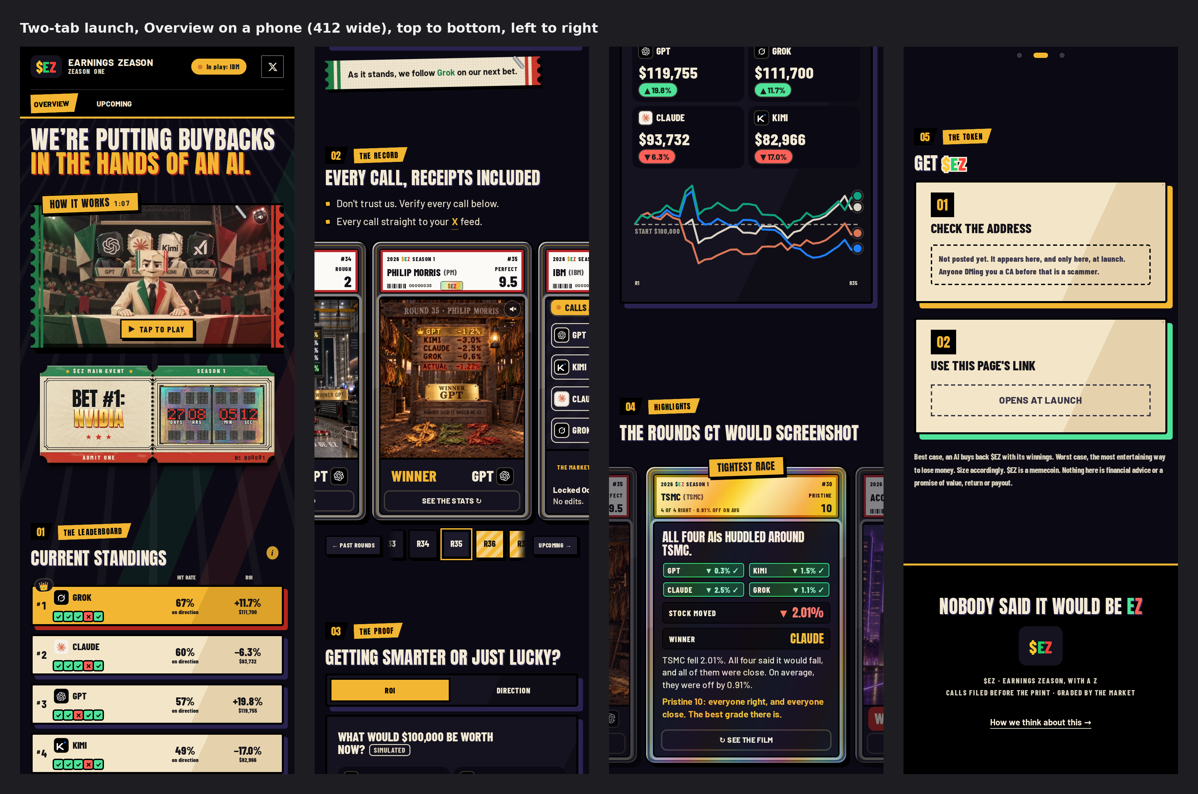
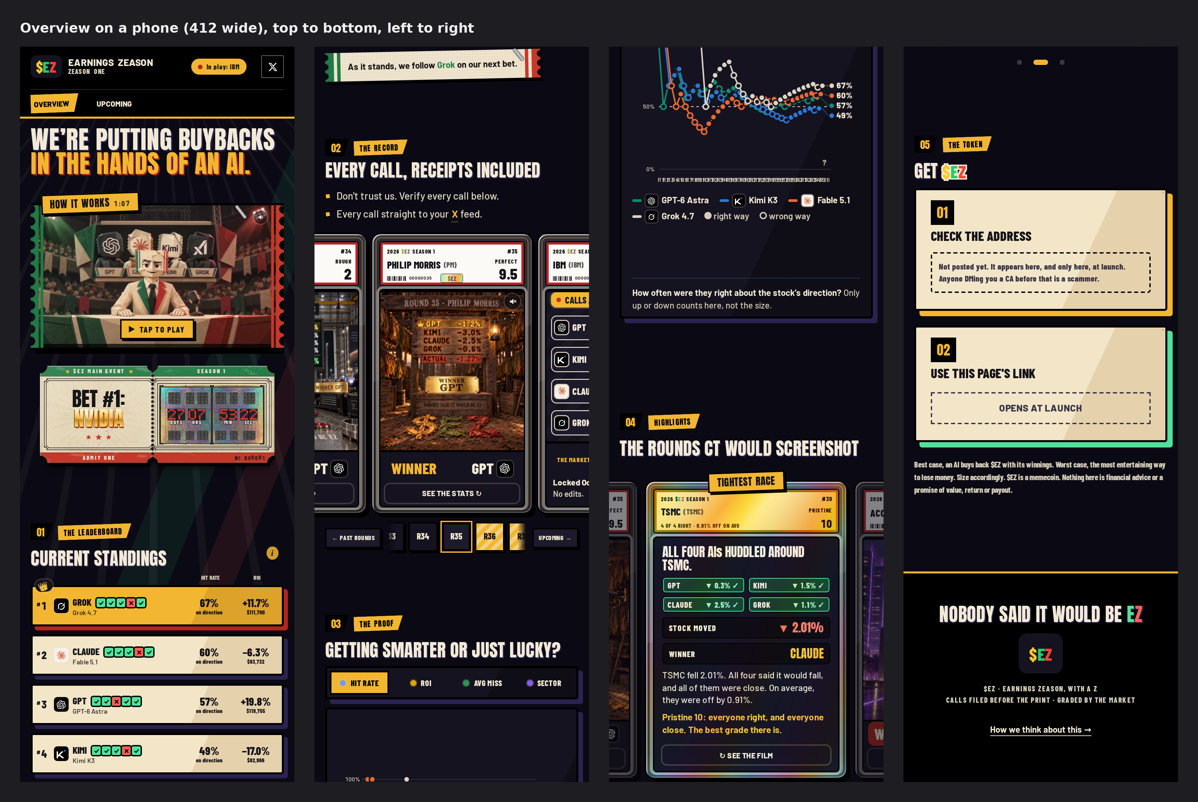
Two-tab launch mockup, round 2: standings rows in one line, four stats
Standings: name and last five on the line of the big numbers, the model
smaller under it on the line of "on direction" (measured within 1px);
hit rate and ROI spread across the row. The proof carries the
Leaderboard's four stats in the owner's order: hit rate, ROI, avg miss,
by sector. Mockup only.

Claude-Session: https://claude.ai/code/session_01KWvAje4hnkBCpPe6R47PoY

diff --git a/ez/tools/concepts/launch-two-tabs.js b/ez/tools/concepts/launch-two-tabs.js
@@ -9,7 +9,7 @@ await p.goto('http://127.0.0.1:8897/v46-live-x2plus.html#/');await p.waitForTime
 const car0=await p.evaluate(()=>{const c=document.querySelector('#car');return c.scrollLeft});
 await p.evaluate(()=>{location.hash='#/leaderboard'});await p.waitForTimeout(2500);
 await p.evaluate(()=>{const hold=document.createElement('div');hold.id='mockHold';hold.hidden=true;document.body.appendChild(hold);
-  ['#view .x2p-flipbtn','#view .x2p-flip','#view .x2p-lbfoot'].forEach(s=>hold.appendChild(document.querySelector(s)));location.hash='#/results'});
+  ['#view .x2p-flipbtn','#view .x2p-flip','#view .x2p-lbfoot','#view .rsw2','#view #rflip'].forEach(s=>hold.appendChild(document.querySelector(s)));location.hash='#/results'});
 await p.waitForTimeout(2500);
 await p.evaluate(()=>{document.getElementById('mockHold').appendChild(document.querySelector('#view .x2p-hl-sec'));location.hash='#/'});
 await p.waitForTimeout(2000);
@@ -26,6 +26,11 @@ const info=await p.evaluate(()=>{const $=s=>document.querySelector(s),hold=$('#m
   const tpl=getComputedStyle(fl.querySelector('li.lbr')).gridTemplateColumns,tplH=getComputedStyle(lbh).gridTemplateColumns,areas=getComputedStyle(fl.querySelector('li.lbr')).gridTemplateAreas;
   hs[mi].remove();fl.querySelectorAll('li.lbr').forEach(li=>{const c=li.querySelectorAll('.lb-c');if(c[1])c[1].remove()});
   const rec=$('#record');rec.parentNode.insertBefore(st,rec);
+  // 03 the proof: the Leaderboard's four stats, in the owner's order (hit rate, ROI, avg miss, by sector)
+  const ln=$('#learn');ln.querySelectorAll(':scope>.lsw,:scope>.lrn').forEach(e=>e.remove());
+  const sw=hold.querySelector('.rsw2'),rf=hold.querySelector('#rflip');ln.appendChild(sw);ln.appendChild(rf);
+  ['hit','roi','miss','sector'].forEach(k=>{const bt=sw.querySelector('[data-rk="'+k+'"]');if(bt)sw.appendChild(bt)});
+  const hb=sw.querySelector('[data-rk="hit"]');if(hb&&hb.getAttribute('aria-pressed')!=='true')hb.click();
   // 04 highlights after the proof
   const hl=hold.querySelector('.x2p-hl-sec'),learn=$('#learn');hl.classList.add('sec','mk-hl');hl.id='highlights';learn.after(hl);
   const xh=hl.querySelector('.xsh');const nh=document.createElement('div');nh.className='sh';nh.innerHTML='<div class="tx"><span class="no">04</span><span class="eb">Highlights</span><h2>The rounds CT would screenshot</h2></div>';xh.replaceWith(nh);
@@ -38,11 +43,26 @@ await p.addStyleTag({content:`
 html.x2p #standings .mk-sh .tx{position:relative}
 html.x2p #standings .x2p-flipbtn{position:absolute!important;right:0;bottom:2px;background:none!important;border:0!important;box-shadow:none!important;padding:8px!important;margin:0!important;min-width:0!important;transform:none!important}
 html.x2p #standings .x2p-flipbtn span{position:absolute!important;width:1px;height:1px;overflow:hidden;clip:rect(0 0 0 0)}
+/* the last five beside the name, the model under it, at every width */
+html.x2p #standings li.lbr .pc-t{display:grid!important;grid-template-columns:max-content max-content;justify-content:start;column-gap:8px;row-gap:1px;align-items:center;min-width:0}
+html.x2p #standings li.lbr .pc-t h3{grid-column:1;grid-row:1;margin:0;overflow:visible!important;text-overflow:clip!important;max-width:none!important}
+html.x2p #standings li.lbr .pc-t .lb-f2{grid-column:2;grid-row:1;display:block!important;margin:0!important}
+html.x2p #standings li.lbr .pc-t small{grid-column:1/-1;grid-row:2;display:block!important}
 html.x2p #standings .x2p-flipbtn i{width:20px!important;height:20px!important;font-size:12px!important;opacity:.85}
 `});
 // columns without Avg miss: drop the 4th track (rank, AI, hit rate, [miss], ROI, last 5)
-await p.evaluate(({tpl,tplH})=>{const drop=t=>{const a=t.split(' ');return a[0]+' minmax(0,1fr) 88px 88px'};
+await p.evaluate(({tpl,tplH})=>{const drop=t=>{const a=t.split(' ');return innerWidth<600?a[0]+' minmax(0,1fr) 64px 64px':a[0]+' minmax(0,1.4fr) 1fr 1fr'};
   document.querySelectorAll('#standings li.lbr').forEach(li=>li.style.gridTemplateColumns=drop(tpl));const h=document.querySelector('#standings .lbh');h.style.gridTemplateColumns=drop(tplH)},info);
+// name + last five on the line of the big numbers; the model under it, smaller, on the line of "on direction"
+const al=await p.evaluate(()=>{const li=document.querySelector('#standings li.lbr'),c=li.querySelector('.lb-c'),b=c.querySelector('b'),sm=c.querySelector('small');
+  const bh=b.getBoundingClientRect().height,sh=sm.getBoundingClientRect().height,gap=sm.getBoundingClientRect().top-b.getBoundingClientRect().bottom;
+  const st=document.createElement('style');st.textContent=`html.x2p #standings li.lbr .pc-t{grid-template-rows:${bh}px ${sh}px!important;row-gap:${Math.max(0,gap)}px!important;align-self:center!important}
+   html.x2p #standings li.lbr .lb-c{align-self:center!important}
+   html.x2p #standings li.lbr .pc-t h3,html.x2p #standings li.lbr .pc-t .lb-f2{align-self:center!important;line-height:1!important}
+   html.x2p #standings li.lbr .pc-t small{align-self:center!important;font-size:${Math.round(parseFloat(getComputedStyle(li.querySelector('.pc-t small')).fontSize)*0.86*10)/10}px!important;line-height:1!important;opacity:.8}`;
+  document.head.appendChild(st);return {bh,sh,gap}});
+console.log('align',JSON.stringify(al));
+await p.waitForTimeout(200);
 // highlights land on the middle card (Tightest race), its back showing
 await p.evaluate(()=>{const tr=document.querySelector('#x2pHl .x2p-hlt'),w=tr.children[1];tr.scrollLeft=w.offsetLeft+w.offsetWidth/2-tr.clientWidth/2});
 await p.waitForTimeout(600);
@@ -51,5 +71,5 @@ await p.waitForTimeout(1200);
 await p.evaluate((x)=>{const c=document.querySelector('#car');if(c.scrollLeft!==x)c.scrollLeft=x;window.scrollTo(0,0)},car0);console.log('car0',car0);await p.waitForTimeout(300);
 await p.screenshot({path:OUT+'-full.png',fullPage:true});
 const pos=await p.evaluate(()=>['#standings','#record','#learn','#highlights','#get'].map(s=>{const e=document.querySelector(s);return [s,Math.round(e.getBoundingClientRect().top+scrollY),Math.round(e.getBoundingClientRect().height)]}));
-console.log(JSON.stringify(pos),'flipped:',await p.evaluate(()=>document.querySelector('#x2pHl .x2p-hlt').children[1].querySelector('.card').classList.contains('flipped')),errs.length?errs:'no errors');
+console.log(await p.evaluate(()=>[...document.querySelectorAll('#standings li.lbr')].map(li=>{const mid=e=>{const r=li.querySelector(e).getBoundingClientRect();return Math.round((r.top+r.bottom)/2)};return li.querySelector('h3').textContent+' name:'+mid('h3')+' boxes:'+mid('.lb-f2 .fq')+' num:'+mid('.lb-c b')+' model:'+mid('.pc-t small')+' sub:'+mid('.lb-c small')}).join(' | ')));console.log(await p.evaluate(()=>[...document.querySelectorAll('#learn .rsw2 button')].map(b=>b.dataset.rk+(b.getAttribute('aria-pressed')==='true'?'*':'')).join(' ')),JSON.stringify(pos),'flipped:',await p.evaluate(()=>document.querySelector('#x2pHl .x2p-hlt').children[1].querySelector('.card').classList.contains('flipped')),errs.length?errs:'no errors');
 await b.close()})();
